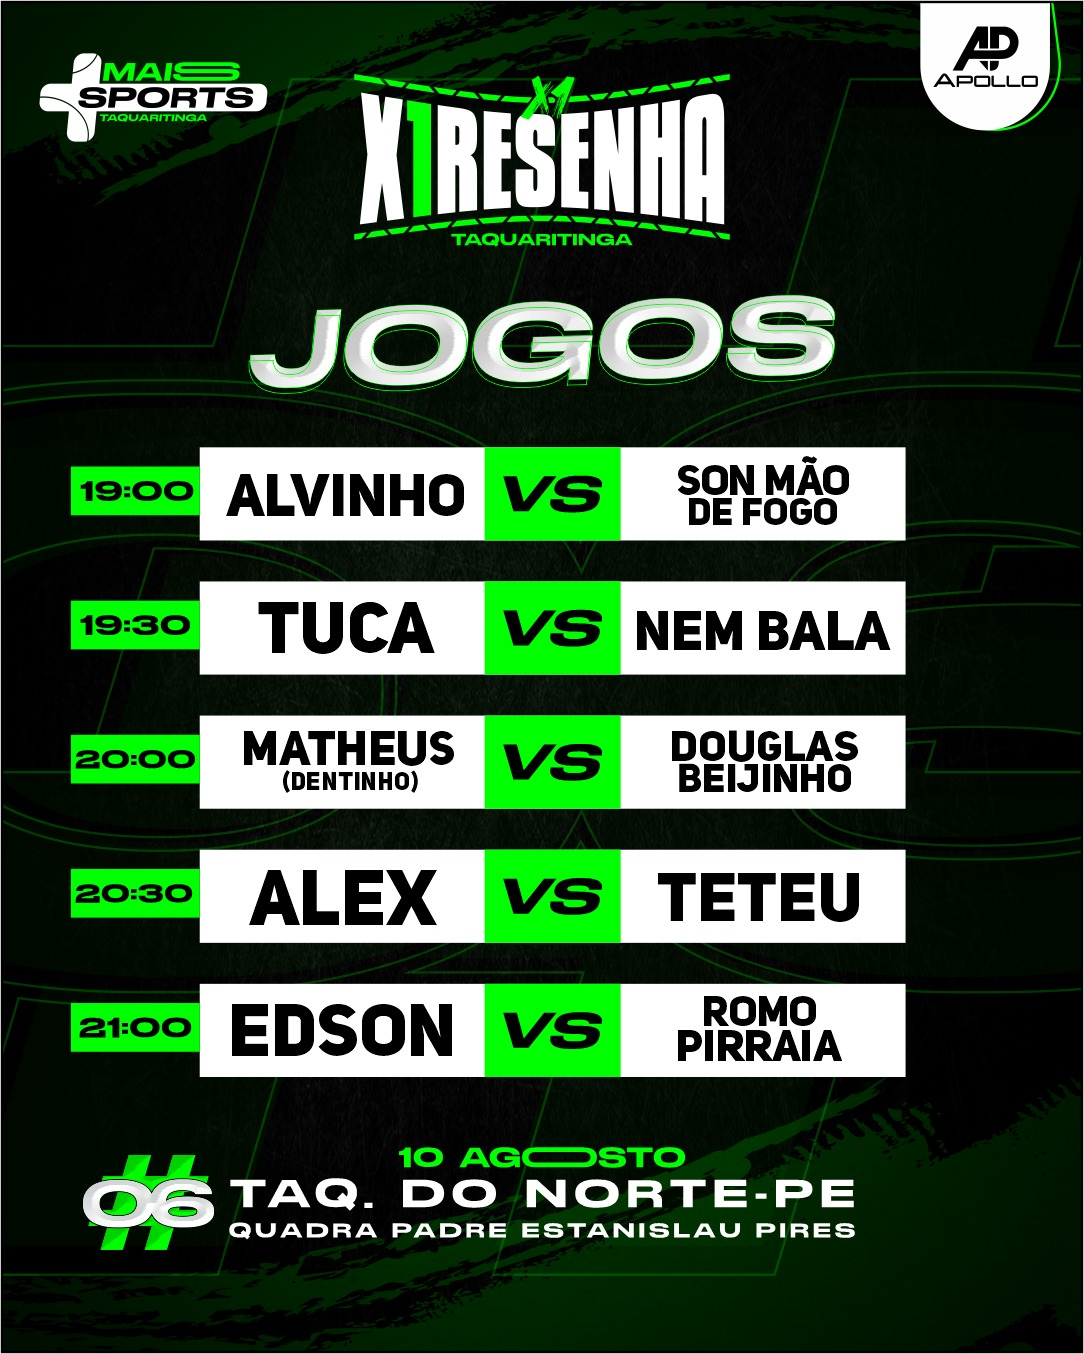
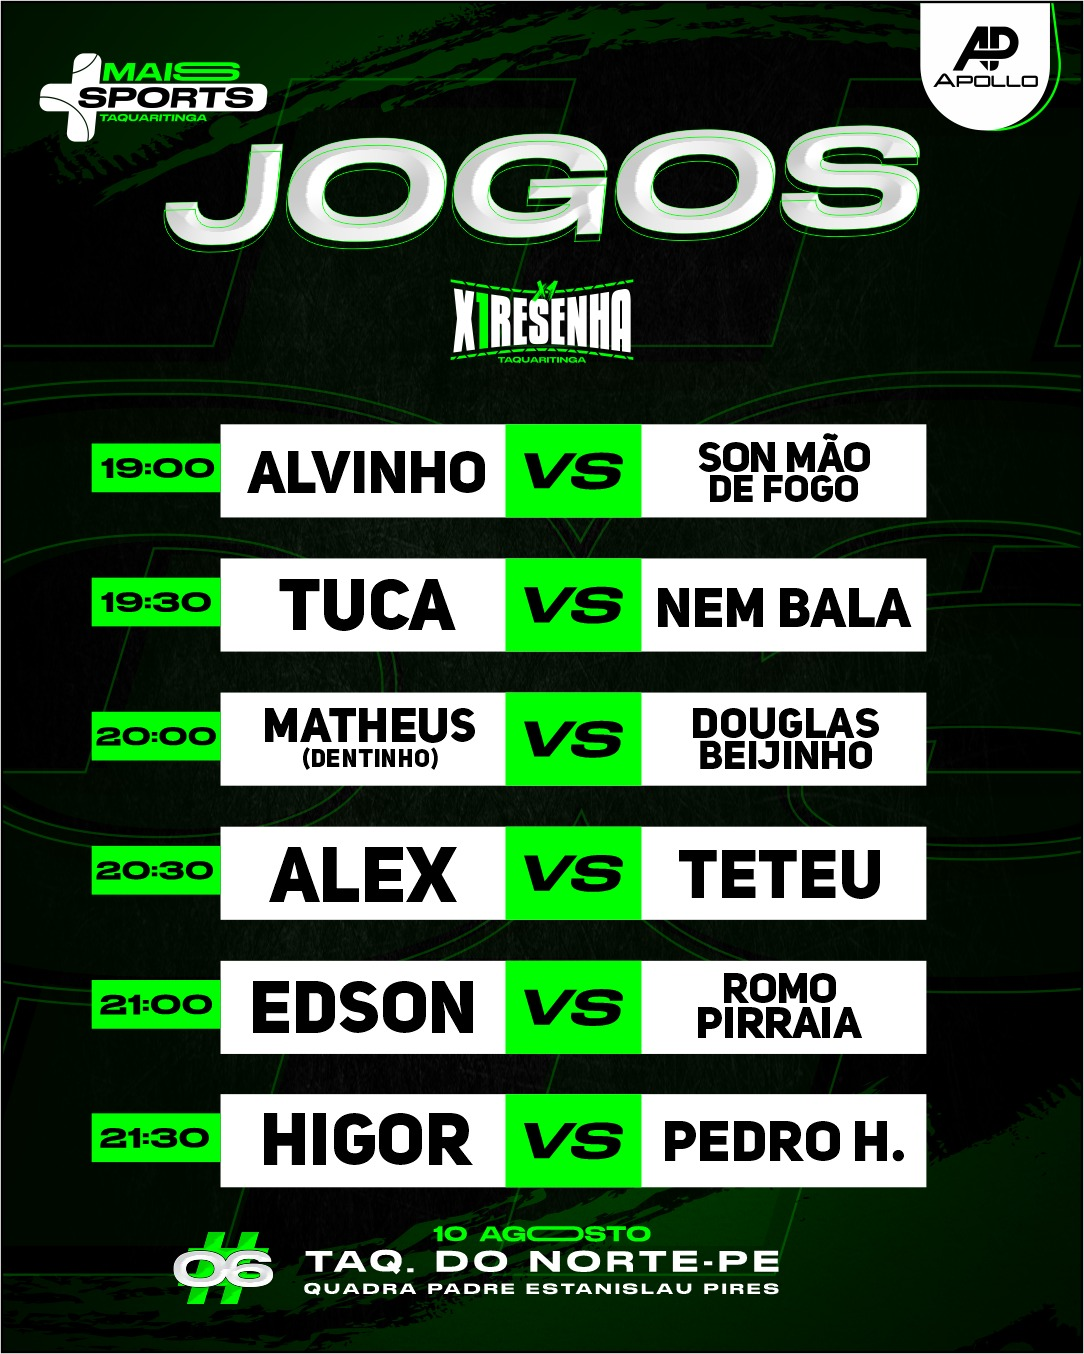
adicionando um outro confronto

diff --git a/index.html b/index.html
@@ -177,6 +177,14 @@
               </div>
             </div>
           </div>
+          <div class="col-md-6 col-sm-6 col-lg-2">
+            <div class="card custom_card">
+              <img src="./assets/images/higorxpedro.jpeg" class="card-img-top" alt="...">
+              <div class="card-body">
+                <h5 class="card-title text-center" style="font-size: 16px;">Higor x Pedro</h5>
+              </div>
+            </div>
+          </div>
 
         </div>
       </div>
